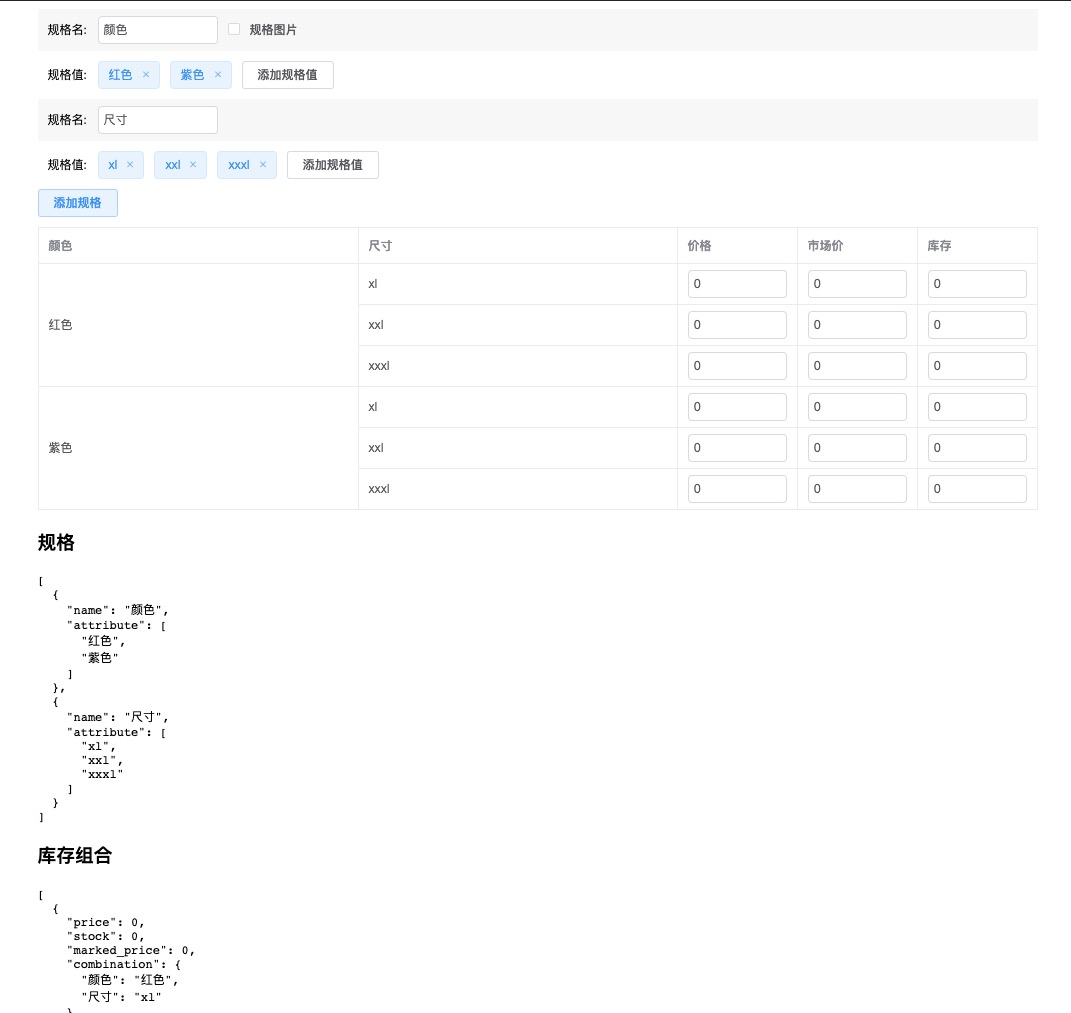
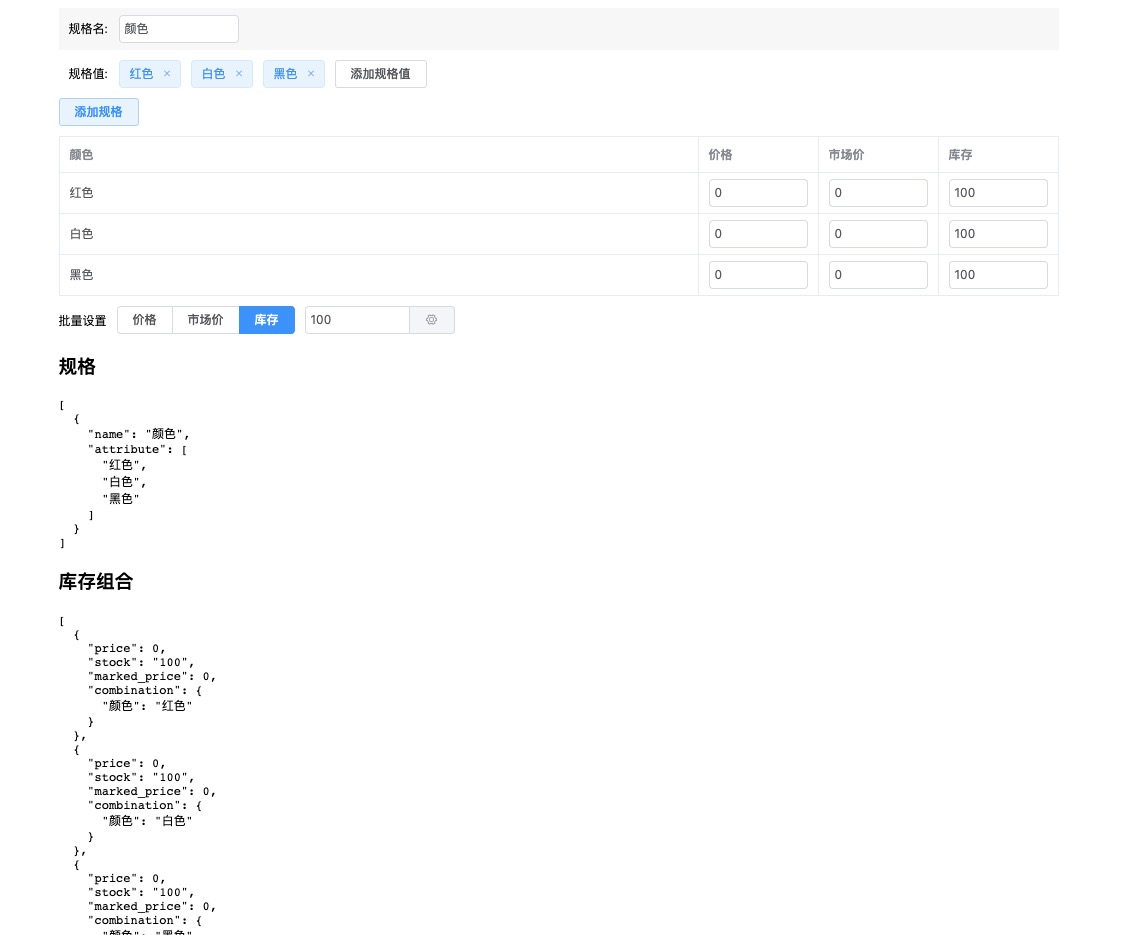
组件化

diff --git a/src/components/specification/index.vue b/src/components/specification/index.vue
@@ -94,11 +94,12 @@ import { uniq, cloneDeep, isEqual } from 'lodash'
 export default {
   props: {
     spec: Array,
-    sku: Array
+    sku: Array,
+    // 测试
+    test: Boolean
   },
   data () {
     return {
-      test: false,
       max: 3,
       image: false,
       checked: false,
@@ -381,13 +382,6 @@ export default {
   },
 
   created () {
-    if (!this.test) {
-      this.specification = []
-      this.skus = []
-    }
-  },
-
-  mounted () {
     if (this.test) {
       this.specification = [
         {
@@ -425,7 +419,9 @@ export default {
         }
       ]
     }
+  },
 
+  mounted () {
     this.tableData()
   }
 }

diff --git a/src/App.vue b/src/App.vue
@@ -1,7 +1,7 @@
 <template>
   <div id="app">
     <div class="container">
-      <specification />
+      <specification test :spec="spec" :sku="sku" />
     </div>
   </div>
 </template>
@@ -10,8 +10,25 @@
 import Specification from '@/components/specification'
 
 export default {
+  data () {
+    return {
+      spec: [],
+      sku: []
+    }
+  },
+
   components: {
     Specification
+  },
+
+  methods: {
+    handleChangeSpec (spec) {
+      this.spec = spec
+    },
+
+    handleChangeSku (sku) {
+      this.sku = sku
+    }
   }
 }
 </script>

diff --git a/README.md b/README.md
@@ -1,3 +1,64 @@
 ## vue element-ui 商品sku编辑组件demo
 
+```
+import Specification from '@/components/specification'
+
+components: {
+  Specification
+}
+```
+
+```
+data () {
+  return {
+    spec: [
+      {
+        name: '颜色',
+        attribute: [
+          '红色', '白色', '黑色'
+        ]
+      }
+    ],
+    sku: [
+      {
+        price: 0,
+        stock: 0,
+        marked_price: 0,
+        combination: {
+          '颜色': '红色'
+        }
+      },
+      {
+        price: 0,
+        stock: 0,
+        marked_price: 0,
+        combination: {
+          '颜色': '白色'
+        }
+      },
+      {
+        price: 0,
+        stock: 0,
+        marked_price: 0,
+        combination: {
+          '颜色': '黑色'
+        }
+      }
+    ]
+  }
+}
+
+methods: {
+  handleChangeSpec (spec) {
+    this.spec = spec
+  },
+
+  handleChangeSku (sku) {
+    this.sku = sku
+  }
+}
+
+<speciication :spec="" :sku="" @change-spec="" @change-sku="" />
+```
+
 ![demo](./src/assets/17_31_36__08_08_2019.jpg)
